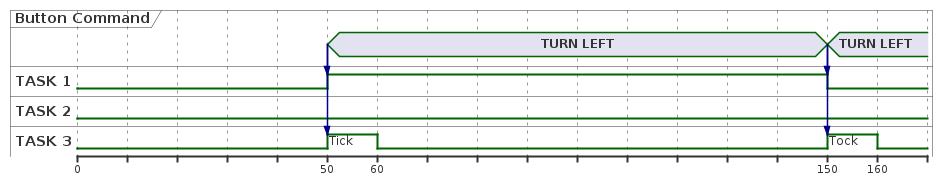
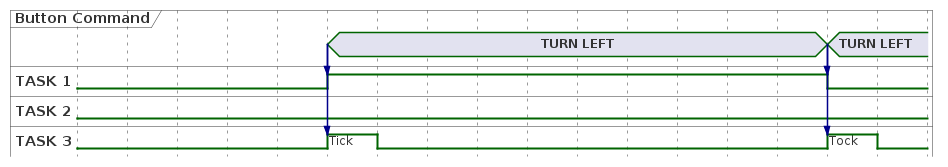
WIP Preparation steps

Changed region(s): [[0.0, 0.5689, 0.9789, 0.9581], [0.0, 0.1497, 0.9789, 0.5389], [0.0, 0.0299, 0.9789, 0.1796]]

diff --git a/README.md b/README.md
@@ -2,7 +2,31 @@
 
 Hello and welcome to the CTS 2023 embedded trail. In this trail you will be introduced to basic real-time system concepts and how to utilize them in FreeRTOS, a real-time system core for embedded devices. With these concepts, you will finalize a mini version of a car's telltale: brake, hazard and turn indicators will all be implemented using light and sound that can be controlled from a circuit board.
 
-TODO add ToC
+- [Introduction](#introduction)
+  - [Raspberry Pi Pico](#raspberry-pi-pico)
+  - [The Circuit Board (PCB)](#the-circuit-board-pcb)
+    - [GPIO configuration table](#gpio-configuration-table)
+  - [Workshop goals](#workshop-goals)
+- [Workshop](#workshop)
+  - [Preparation](#preparation)
+  - [Prepare the development environment](#prepare-the-development-environment)
+  - [How to build an image](#how-to-build-an-image)
+  - [How to flash an image to Pico](#how-to-flash-an-image-to-pico)
+    - [Step 1: Enter programming mode](#step-1-enter-programming-mode)
+    - [Step 2: Flash image](#step-2-flash-image)
+      - [Flashing using picotool](#flashing-using-picotool)
+      - [Flashing by moving UF2 to mass-storage device](#flashing-by-moving-uf2-to-mass-storage-device)
+  - [Interrupt Handling](#interrupt-handling)
+  - [Step 1: Handle button commands](#step-1-handle-button-commands)
+    - [Task scheduling](#task-scheduling)
+  - [Step 2: TURN LEFT and TURN RIGHT](#step-2-turn-left-and-turn-right)
+    - [Syncing tasks](#syncing-tasks)
+  - [Step 3: Hazzard](#step-3-hazzard)
+  - [Step 4: Buzzer (TICK/TOCK sound)](#step-4-buzzer-ticktock-sound)
+  - [Step 5: Periodicity](#step-5-periodicity)
+    - [Handle shared resources](#handle-shared-resources)
+  - [Step 6: Break button](#step-6-break-button)
+  - [Step 7: One Task that controlls each LED row](#step-7-one-task-that-controlls-each-led-row)
 
 ## Raspberry Pi Pico
 
@@ -82,15 +106,89 @@ Simplification of the parameters:
 | Hazard | On press | All headlights headlights toggles at a fixed interval. Buzzer plays a tick sound for each flash. |
 | Brake | On hold | All headlights are on. |
 
-Fixed interval is XXXXX Hz!!! TODOO
+
+By fixed interval in the table above we mean it should be toggled at 1Hz. For the turn indicator, this would be according to the time diagram below. Note that we don't include tock sound. Cooler car brands do this. We don't know why:
+
+![alt text](puml/png/tick_tock.png "Tick tock PUML")
+
 Here is a gif of how the results will look like:
 !!!TODO ADD A GIF WITH REFERENCE SOLUTION!!!
 
+In a normal car, when the hazard is on and the brake is issued, the hazard continues after the brake has been released. In this workshop we do not require you to implement this behavior instead it's up to the designer how to handle this. You will see in the time diagrams later in the workshop that we suggest that you need to reissue the hazard after braking. The same goes for turn indicator.
+
 # Workshop
+
+Now the actual workshop begins
 
 ## Preparation
 
-Set up environment, build and flash test code provided by team task force
+This section is where you prepare and set up your development environment.
+At the end of this section, you should be able to know where to add changes, and how to build and flash. To test the circuit board, we have provided a blinky code example that is going to be flashed onto the board.
+
+Important folders and files:
+```
+# Your workspace, feel free to add more workspaces if needed.
+firmware/turn-cygnicator
+
+# ..we suggest you work in the same workspace throughout the workshop
+# since every step builds on the previous one.
+
+# Main entrypoint to your solution
+firmware/turn-cygnicator/main.c
+
+# Binary image that will be flashed onto the Raspberry Pi Pico
+firmware/turn-cygnicator/turn-cygnicator.uf2
+
+# Cygni turnindicator (Cygnicator) APIs
+firmware/inc
+
+# FreeRTOS kernel, you shouldn't need to touch this
+firmware/lib/FreeRTOS-Kernel
+
+# FreeRTOS configuration file for this project, you shouldn't need to touch this
+firmware/inc/FreeRTOSConfig.h
+
+```
+
+## Prepare the development environment
+
+In other words, build the docker image `firmware/docker/Dockerfile` that contains the FreeRTOS kernel, pico SDK, picotool and other tools/libraries that are needed.
+
+Run this command in the root folder of this repository:
+`docker build --build-arg UID="$(id -u)" -t rpisdk:latest docker/` or run
+`build_docker.sh`
+
+It takes about 5 minutes to download all dependencies, this command should only be run once.
+
+## How to build an image
+
+TODO how to build test blinky project
+
+TODO how to build real workshop workspace
+
+## How to flash an image to Pico
+
+### Step 1: Enter programming mode
+
+Before flashing the image, the Pico needs to enter its programming mode.
+This is done by holding the BOOTSEL button (1/RED) and pressing the RESET button (2/BLUE) once while the BOOTSEL button is still held down.
+
+![alt text](img/pcb_flash_steps.png "Enter programming mode")
+
+Now the Pico should have entered programming mode, it should appear to your host computer as a mass-storage device, like a USB memory stick. If it doesn't, you need to redo step 1.
+
+### Step 2: Flash image
+
+There are two alternatives to flash.
+Either use picotool provided in the docker image or move UF2 image manually to mass-storage device.
+
+#### Flashing using picotool
+
+`docker run --rm -v $(pwd):/tmp/app_dir -w /tmp/app_dir --name rpibuilder --privileged rpisdk:latest /bin/picotool load -v -x turn-cygnicator/turn-cygnicator.uf2`
+
+#### Flashing by moving UF2 to mass-storage device
+
+TODO
 
 ## Interrupt Handling
 
@@ -118,7 +216,7 @@ Introduce FreeRTOS API to how to create tasks and communicate between tasks e.g.
 ### Syncing tasks
 Introduce FreeRTOS API on how to sync between tasks
 
-<img src="./puml/png/step_2.png" alt="step_2" />
+![alt text](puml/png/step_2.png "Step 2 PUML")
 
 ## Step 3: Hazzard
 
@@ -126,20 +224,20 @@ Introduce FreeRTOS API on how to sync between tasks
 
 * When HAZZARD button is pressed both LHS and RHS should turn ON at the same time. When button is pressed again, both sides should turn OFF at the same time.
 
-<img src="./puml/png/step_3.png" alt="step_3" />
+![alt text](puml/png/step_3.png "Step 3 PUML")
 
 ## Step 4: Buzzer (TICK/TOCK sound)
 
 During a Turn indication there is a sound being played in the car to notify the driver. Some brands wants only a "Tick" when the LEDs goes from OFF -> ON and some wants both "Tick" and "Tock". Tick when LEDs goes from OFF -> ON and Tick when led goes from ON -> OFF.
 
-<img src="./puml/png/step_4.png" alt="step_4" />
+![alt text](puml/png/step_4.png "Step 4 PUML")
 
 **Expected results:**
 * During HAZZARD/TURN LEFT/TURN RIGHT commands there should be a Tick/Tock sound being played when the corresponding LEDs turns ON/OFF
 
 ## Step 5: Periodicity
 
-<img src="./puml/png/step_5.png" alt="step_5" />
+![alt text](puml/png/step_5.png "Step 5 PUML")
 
 Until this point the LEDs are able to turn ON/OFF with button commands. However in the car this feature is no.....
 
@@ -149,12 +247,12 @@ Introduce FreeRTOS API to handle shared resources: semaphores etc.
 **Expected results:**
 
 ## Step 6: Break button
-<img src="./puml/png/step_6.png" alt="step_6" />
+![alt text](puml/png/step_6.png "Step 6 PUML")
 
 **Expected results:**
 
 ## Step 7: One Task that controlls each LED row
-<img src="./puml/png/step_7.png" alt="step_7" />
+![alt text](puml/png/step_7.png "Step 7 PUML")
 T1 FRONT LEFT
 T2 REAR LEFT
 T3 FRONT RIGHT
